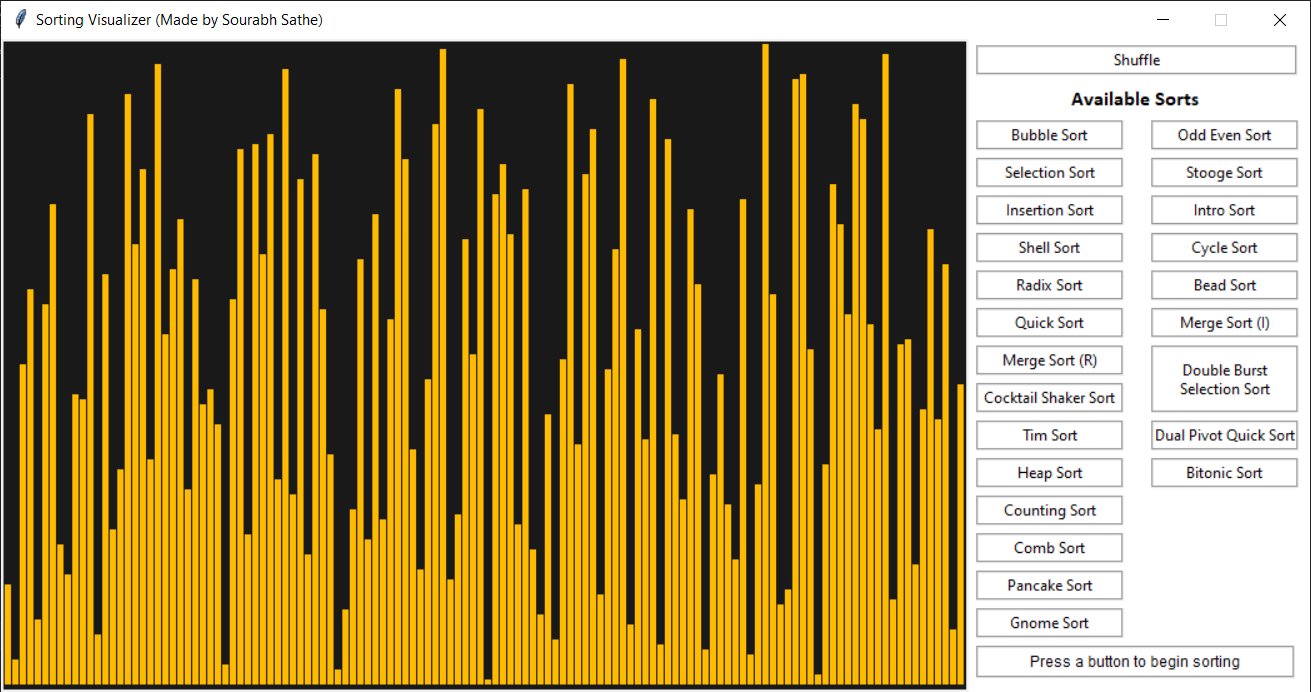
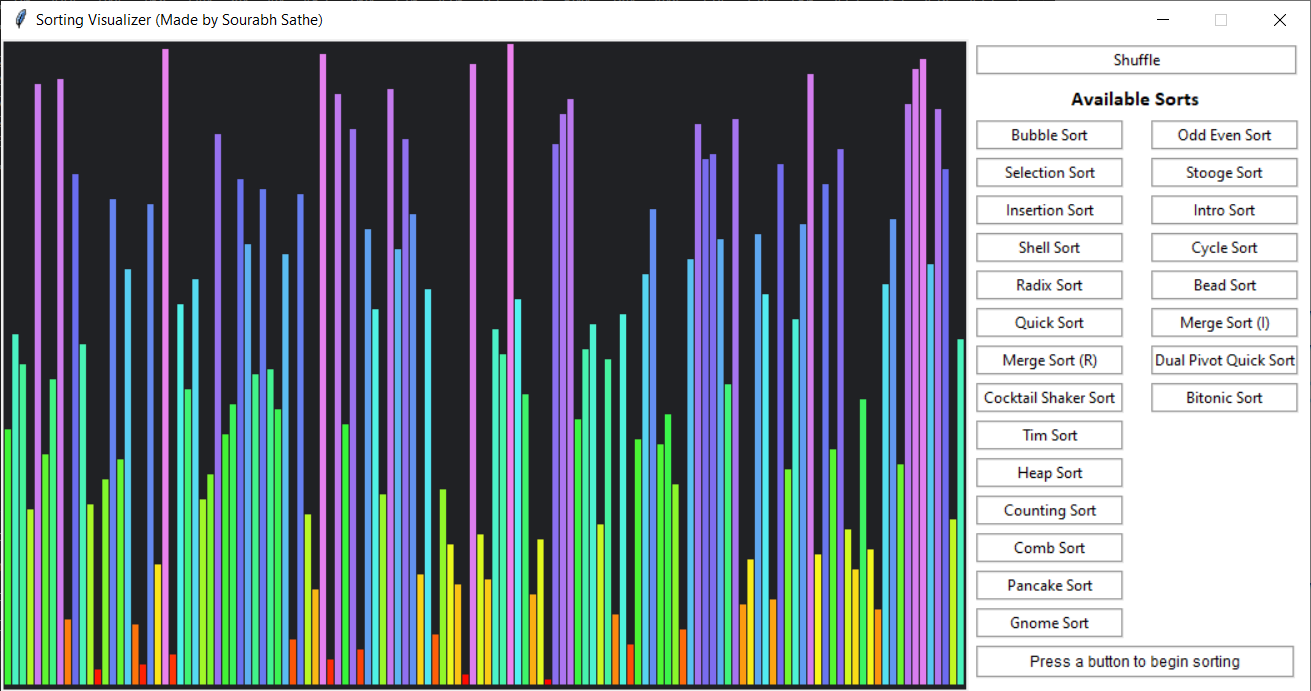
Update Readme

diff --git a/README.md b/README.md
@@ -4,8 +4,17 @@
 [![Github All Releases](https://img.shields.io/github/downloads/sourhub226/sorting-visualizer-python/total.svg)](https://github.com/sourhub226/sorting-visualizer-python/releases)
 
 # Sorting Visualizer GUI
+
 Python app that visually shows how different sorting algorithms work.
 
 Made in python using `Tkinter` module.
 
 ![GUI](preview.png)
+
+### Python Dependencies
+
+-   [`colour` library](https://pypi.org/project/colour/) (For rainbow gradient)
+
+Install the above python dependency using the following command
+
+    pip install -r requirements.txt
